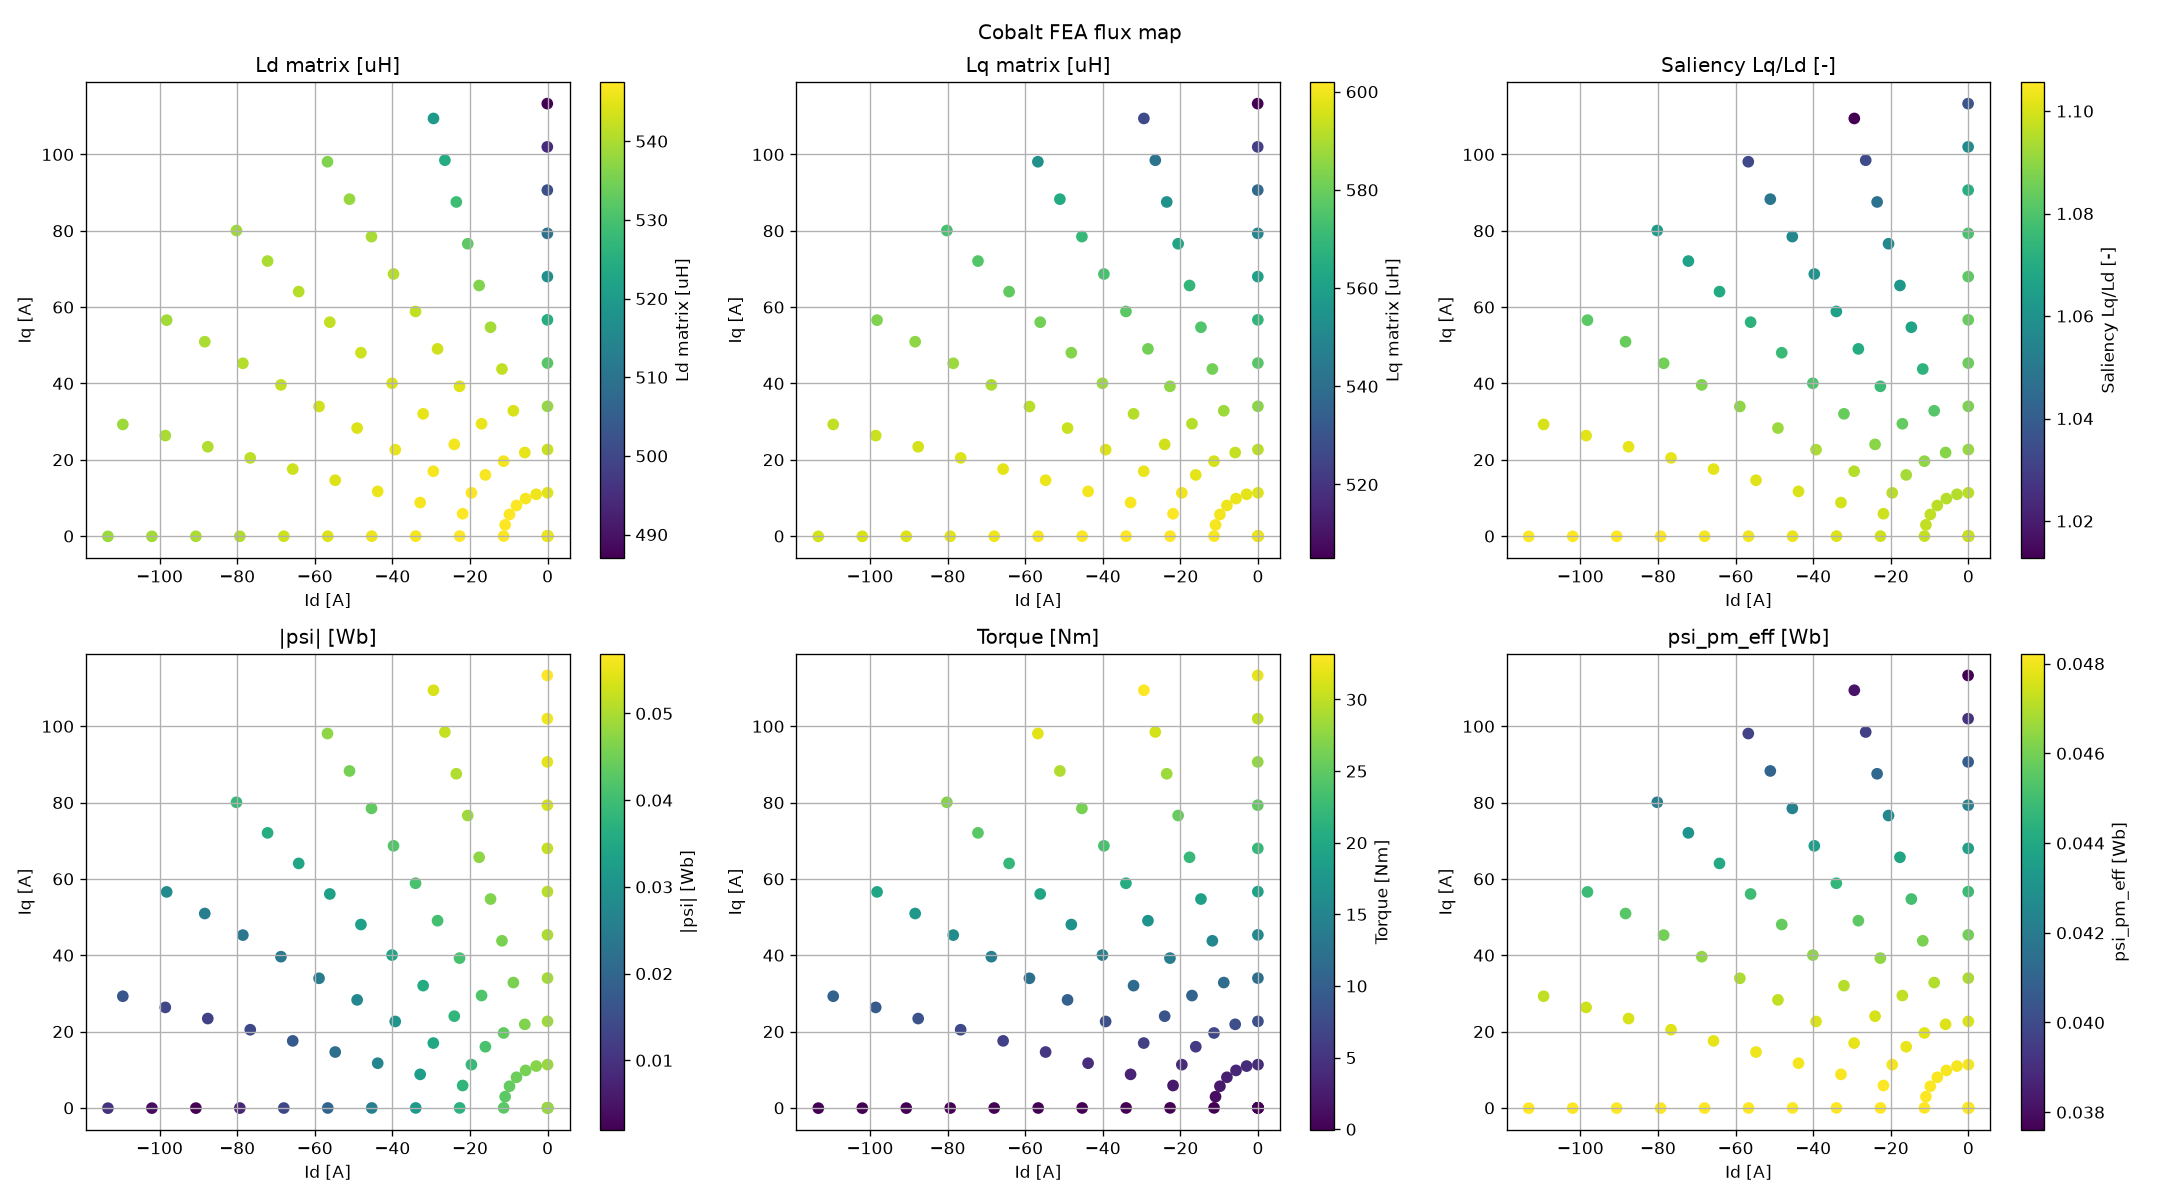
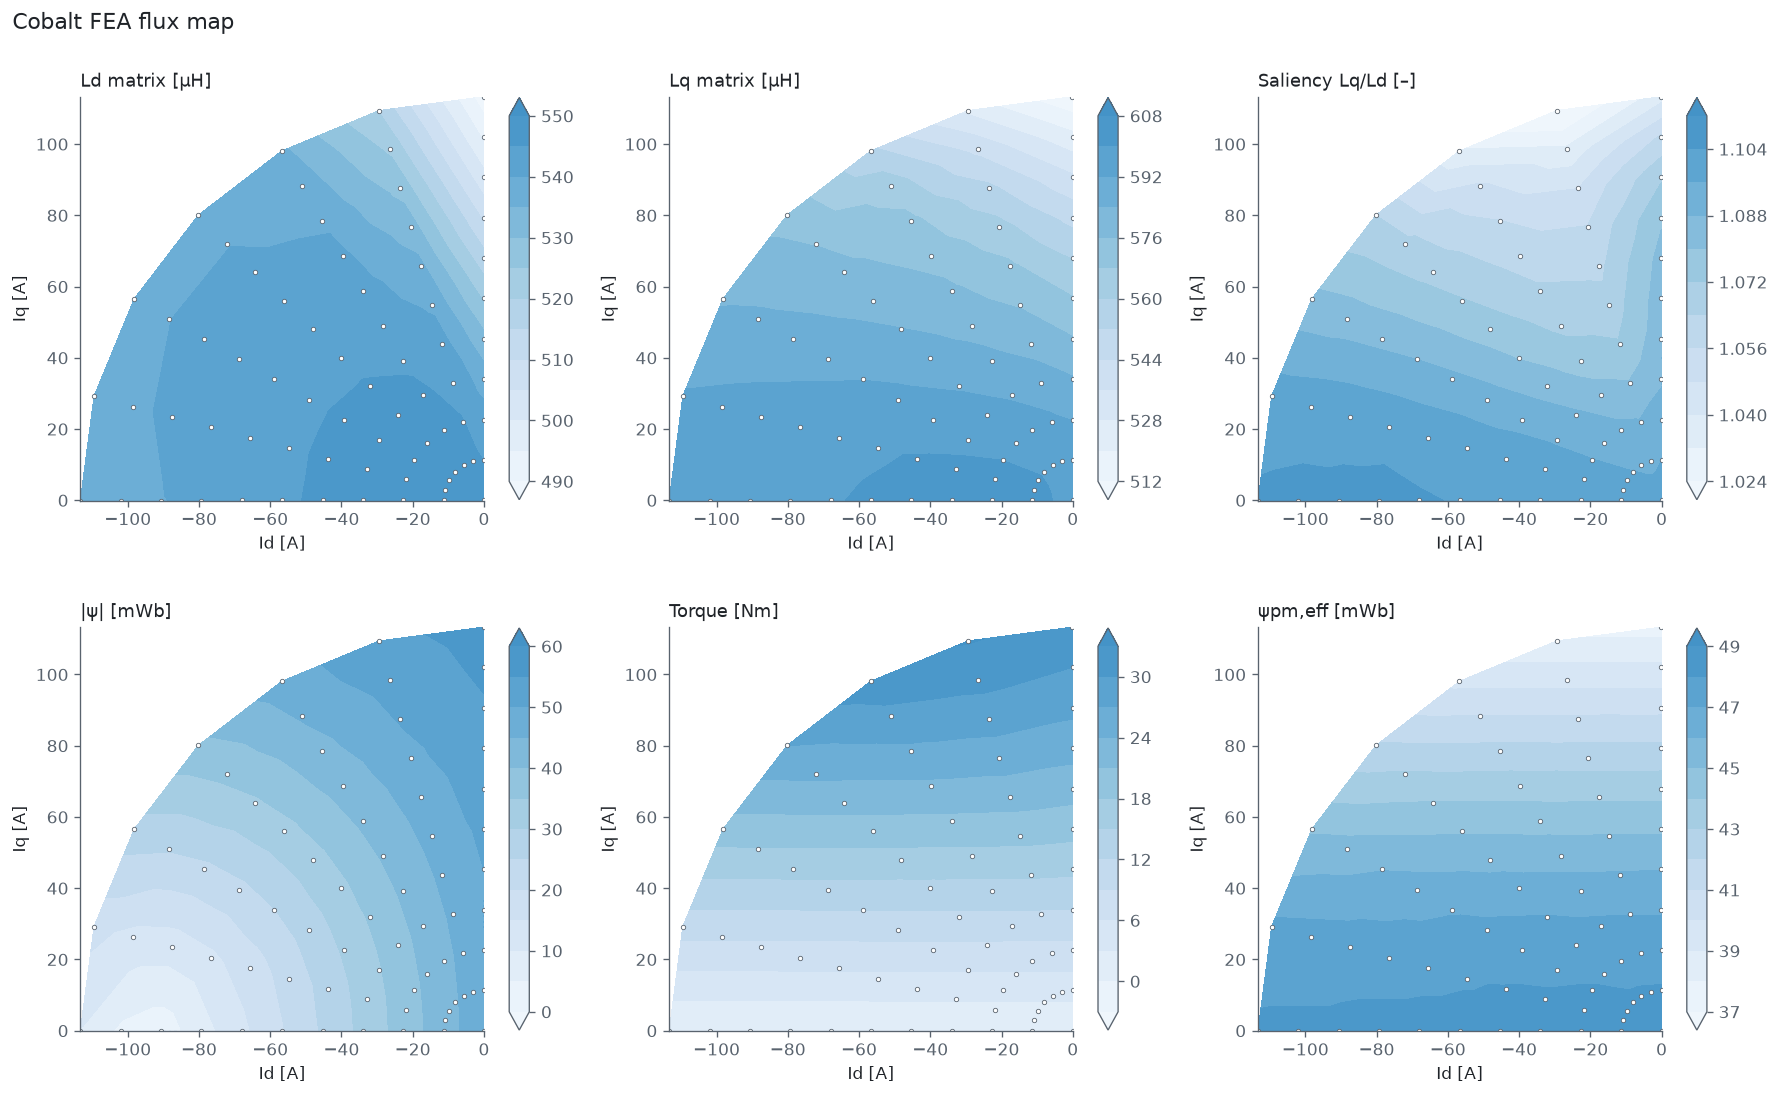
Modified preprocessor to make the motor characteristic plots more readable, updated results to show this

diff --git a/Scripts/preprocess.py b/Scripts/preprocess.py
@@ -586,29 +586,70 @@ def base_values(m, pole_pairs):
 
 
 def plot_flux_map(m, title="", path=None, show=False):
-    """preprocess_v3's 2x3 scatter of the flux map (torque panel now uses the flux formula).
-    Saved to `path` if given; shown on screen only if show=True."""
+    """The six quantities of preprocess_v3's flux-map plot (torque from the flux
+    formula), each drawn as a filled colour map over the Id-Iq plane.
+
+    The colour between FEA points is a straight-line blend of the neighbouring
+    points (a triangulation of the FEA points, no fitted model), so the figure
+    shows only the FEA data. The FEA points are drawn on top. Signed quantities
+    (Zenodo's torque, which runs in all four quadrants) use a red-blue scale
+    centred on zero; everything else uses a light single-hue scale so the dark
+    end never hides the points. Saved to `path` if given; shown on screen only
+    if show=True.
+    """
     import matplotlib
     if not show:
         matplotlib.use("Agg")                   # draw off-screen (no window)
     import matplotlib.pyplot as plt
+    import matplotlib.tri as mtri
+    from matplotlib.colors import LinearSegmentedColormap
+    from matplotlib.ticker import MaxNLocator
 
-    panels = [(m["Ld_matrix"] * 1e6, "Ld matrix [uH]"),
-              (m["Lq_matrix"] * 1e6, "Lq matrix [uH]"),
-              (m["Saliency"], "Saliency Lq/Ld [-]"),
-              (m["Psi_mag"], "|psi| [Wb]"),
-              (m["Torque_Nm"], "Torque [Nm]"),
-              (m["Psi_pm_eff"], "psi_pm_eff [Wb]")]
-    fig, ax = plt.subplots(2, 3, figsize=(18, 10))
-    for a, (v, lab) in zip(ax.flat, panels):
-        sc = a.scatter(m["Id"], m["Iq"], c=v)
-        a.set_title(lab); a.set_xlabel("Id [A]"); a.set_ylabel("Iq [A]"); a.grid(True)
-        fig.colorbar(sc, ax=a, label=lab)
-    if title:
-        fig.suptitle(title)
-    plt.tight_layout()
-    if path is not None:
-        fig.savefig(path, dpi=120)
-    if show:
-        plt.show()
-    plt.close(fig)
+    ink, quiet = "#1f2328", "#59636e"           # text colour, axis/point colour
+    light_blues = LinearSegmentedColormap.from_list(
+        "light_blues", plt.cm.Blues(np.linspace(0.04, 0.62, 256)))
+    red_blue = LinearSegmentedColormap.from_list(
+        "light_red_blue", plt.cm.RdBu_r(np.linspace(0.12, 0.88, 256)))
+
+    # One value per operating point (repeated no-load points are averaged)
+    pts = m.groupby(["Id", "Iq"], as_index=False).mean(numeric_only=True)
+    tri = mtri.Triangulation(pts["Id"], pts["Iq"])
+    dense = len(pts) > 300                      # Zenodo: full-size dots would hide the colours
+
+    panels = [(pts["Ld_matrix"] * 1e6, "Ld matrix [µH]"),
+              (pts["Lq_matrix"] * 1e6, "Lq matrix [µH]"),
+              (pts["Saliency"], "Saliency Lq/Ld [–]"),
+              (pts["Psi_mag"] * 1e3, "|ψ| [mWb]"),
+              (pts["Torque_Nm"], "Torque [Nm]"),
+              (pts["Psi_pm_eff"] * 1e3, "ψpm,eff [mWb]")]
+
+    style = {"font.size": 10, "axes.edgecolor": quiet, "axes.labelcolor": ink,
+             "xtick.color": quiet, "ytick.color": quiet,
+             "axes.spines.top": False, "axes.spines.right": False}
+    with plt.rc_context(style):
+        fig, ax = plt.subplots(2, 3, figsize=(15, 9.4))
+        for a, (v, lab) in zip(ax.flat, panels):
+            # Colour range from the 1st to 99th percentile, so a few extreme
+            # points don't wash out the rest (they show in the end arrows)
+            lo, hi = np.percentile(v, [1, 99])
+            signed = lo < 0 < hi and min(-lo, hi) > 0.1 * max(-lo, hi)
+            if signed:                          # centre the scale on zero
+                lo, hi = -max(-lo, hi), max(-lo, hi)
+            levels = MaxNLocator(nbins=12).tick_values(lo, hi)   # round-number bands
+            cf = a.tricontourf(tri, v, levels=levels, extend="both",
+                               cmap=red_blue if signed else light_blues)
+            if dense:
+                a.scatter(pts["Id"], pts["Iq"], s=0.6, color=quiet, alpha=0.5, lw=0)
+            else:
+                a.scatter(pts["Id"], pts["Iq"], s=7, facecolor="white", edgecolor=quiet, lw=0.5)
+            a.set(xlabel="Id [A]", ylabel="Iq [A]", aspect="equal")
+            a.set_title(lab, loc="left", color=ink, fontsize=11)
+            fig.colorbar(cf, ax=a, shrink=0.8)
+        if title:
+            fig.suptitle(title, x=0.01, ha="left", color=ink, fontsize=13)
+        fig.tight_layout()
+        if path is not None:
+            fig.savefig(path, dpi=120, bbox_inches="tight")
+        if show:
+            plt.show()
+        plt.close(fig)
